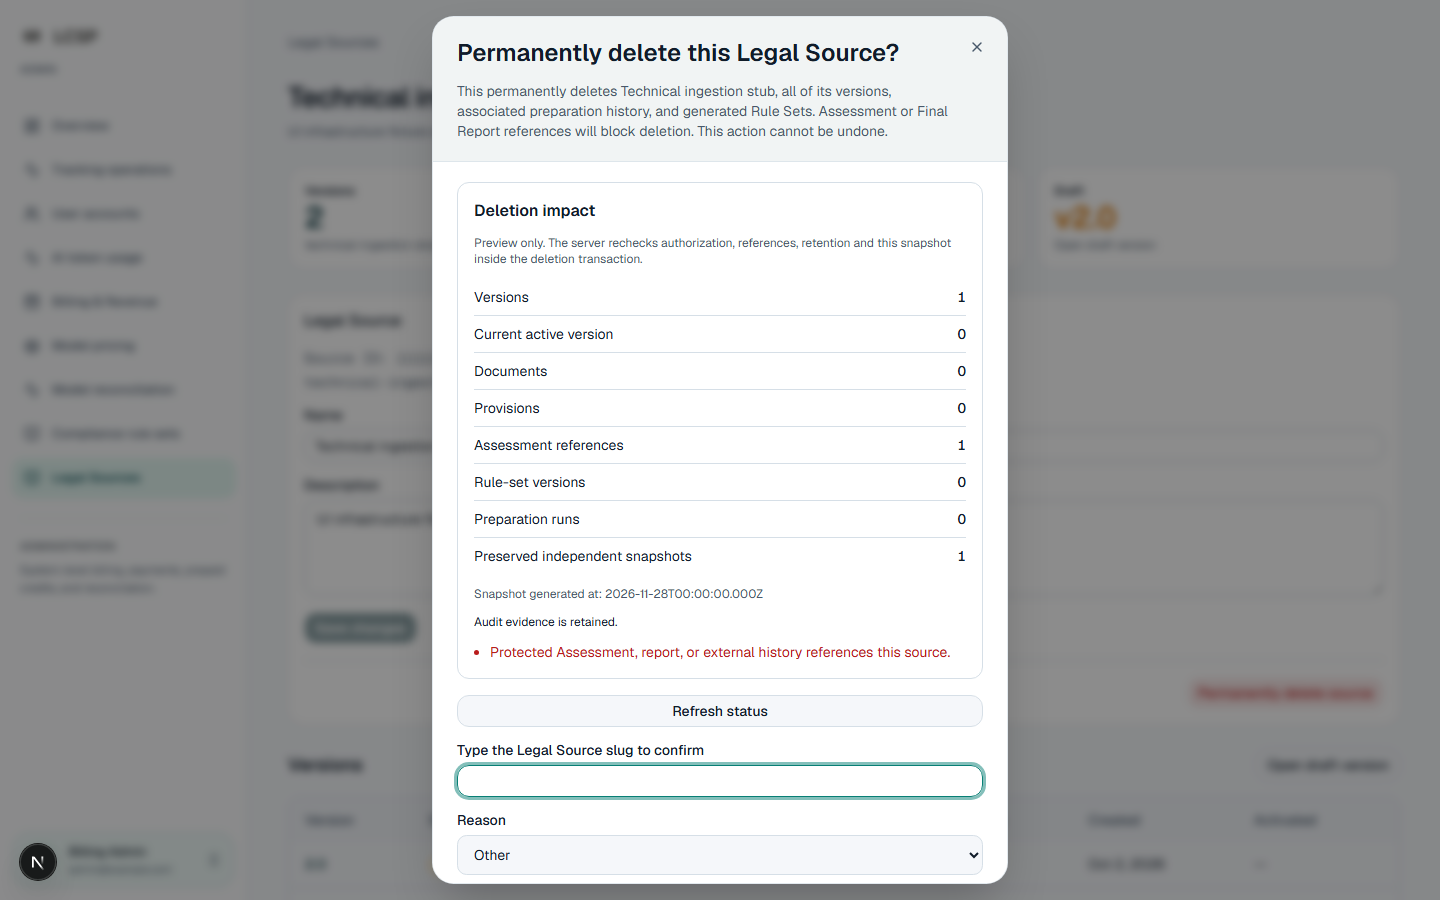
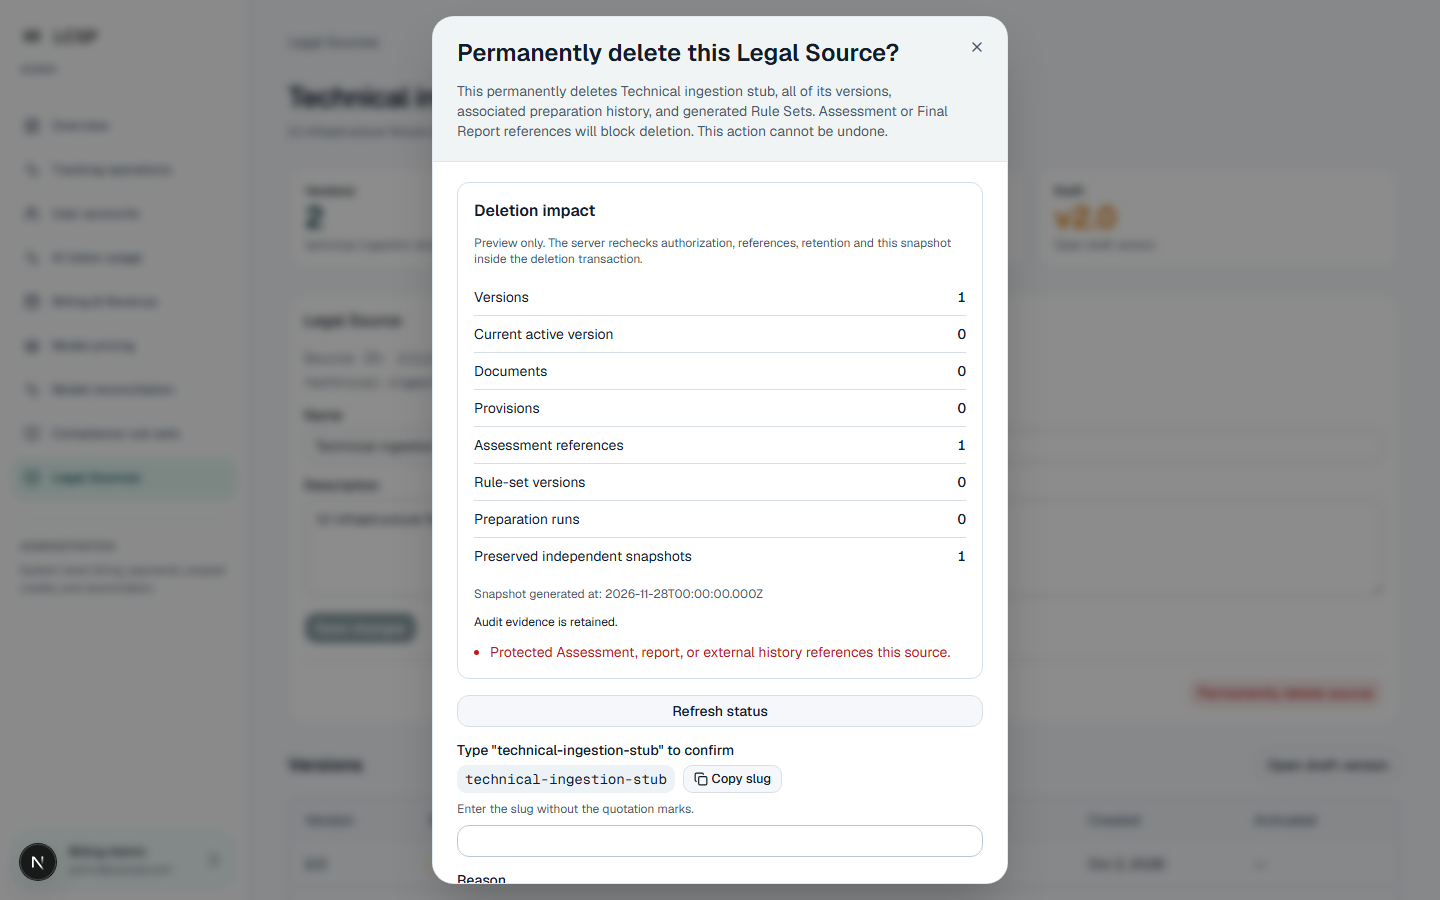
fix(legal-source): LCSP-418 show copyable quoted deletion slug

Changed region(s): [[0.3125, 0.8089, 0.6875, 0.9956]]

diff --git a/tests/e2e/admin/legal-source-lifecycle.spec.ts b/tests/e2e/admin/legal-source-lifecycle.spec.ts
@@ -66,7 +66,8 @@ test("version lifecycle review, document dialogs, provenance and mobile layout",
   ).toBeVisible();
   await page.screenshot({
     path: `${evidence}/${process.env.LCSP_CAPTURE_BEFORE ? "before" : "after"}-version.png`,
-    fullPage: true, animations: "disabled",
+    fullPage: true,
+    animations: "disabled",
   });
   if (process.env.LCSP_CAPTURE_BEFORE) return;
   await page
@@ -81,7 +82,8 @@ test("version lifecycle review, document dialogs, provenance and mobile layout",
   ).toBeVisible();
   await page.screenshot({
     path: `${evidence}/activation-blocked.png`,
-    fullPage: true, animations: "disabled",
+    fullPage: true,
+    animations: "disabled",
   });
   await activation
     .getByRole("button", { name: "Cancel", exact: true })
@@ -98,7 +100,11 @@ test("version lifecycle review, document dialogs, provenance and mobile layout",
     mimeType: "text/plain",
     buffer: Buffer.from("Non-legal technical transport stub."),
   });
-  await page.screenshot({ path: `${evidence}/upload.png`, fullPage: true, animations: "disabled" });
+  await page.screenshot({
+    path: `${evidence}/upload.png`,
+    fullPage: true,
+    animations: "disabled",
+  });
   await upload
     .getByRole("button", { name: "Upload document", exact: true })
     .click();
@@ -128,7 +134,11 @@ test("version lifecycle review, document dialogs, provenance and mobile layout",
     page.getByText(/Document number, issuing authority/).first(),
   ).toBeVisible();
   await page.setViewportSize({ width: 390, height: 844 });
-  await page.screenshot({ path: `${evidence}/mobile.png`, fullPage: true, animations: "disabled" });
+  await page.screenshot({
+    path: `${evidence}/mobile.png`,
+    fullPage: true,
+    animations: "disabled",
+  });
   expect(
     await page.evaluate(
       () => document.documentElement.scrollWidth <= window.innerWidth,
@@ -141,6 +151,7 @@ test("deletion blocks protected references and shows a validated receipt only af
   page,
   context,
 }) => {
+  await context.grantPermissions(["clipboard-read", "clipboard-write"]);
   await context.addCookies([
     {
       name: "lcsp_session",
@@ -189,13 +200,44 @@ test("deletion blocks protected references and shows a validated receipt only af
   await expect(dialog.getByText(/protected|assessment/i).first()).toBeVisible();
   await page.screenshot({
     path: `${evidence}/deletion-blocked.png`,
-    fullPage: true, animations: "disabled",
+    fullPage: true,
+    animations: "disabled",
   });
   expect(deletes).toBe(0);
   eligible = true;
   await dialog
     .getByRole("button", { name: "Refresh status", exact: true })
     .click();
+  const slugInput = dialog.getByLabel(
+    `Type "${fixture.source.slug}" to confirm`,
+    { exact: true },
+  );
+  await expect(slugInput).toHaveValue("");
+  await dialog.getByRole("button", { name: "Copy slug", exact: true }).click();
+  await expect(dialog.getByText("Slug copied", { exact: true })).toBeVisible();
+  expect(await page.evaluate(() => navigator.clipboard.readText())).toBe(
+    fixture.source.slug,
+  );
+  await expect(slugInput).toHaveValue("");
+  await slugInput.scrollIntoViewIfNeeded();
+  await page.screenshot({
+    path: `${evidence}/deletion-slug-copy.png`,
+    fullPage: true,
+    animations: "disabled",
+  });
+  await page.evaluate(() => {
+    navigator.clipboard.writeText = async () => {
+      throw new Error("Clipboard denied for test");
+    };
+  });
+  await dialog.getByRole("button", { name: "Copy slug", exact: true }).click();
+  await expect(
+    dialog.getByText("Could not copy. Select and copy the slug manually.", {
+      exact: true,
+    }),
+  ).toBeVisible();
+  await slugInput.fill(`"${fixture.source.slug}"`);
+  await expect(confirm).toBeDisabled();
   await dialog
     .locator("#legal-source-delete-confirm")
     .fill(fixture.source.slug);
@@ -210,7 +252,8 @@ test("deletion blocks protected references and shows a validated receipt only af
   expect(deletes).toBe(1);
   await page.screenshot({
     path: `${evidence}/deletion-receipt.png`,
-    fullPage: true, animations: "disabled",
+    fullPage: true,
+    animations: "disabled",
   });
 });
 
@@ -257,7 +300,8 @@ test("Vietnamese lifecycle copy and keyboard dialog focus", async ({
   ).toBeDisabled();
   await page.screenshot({
     path: `${evidence}/activation-vi.png`,
-    fullPage: true, animations: "disabled",
+    fullPage: true,
+    animations: "disabled",
   });
   await page.keyboard.press("Escape");
   await expect(dialog).toHaveCount(0);

diff --git a/apps/web/src/features/admin/components/molecules/legal-source-delete-dialog.tsx b/apps/web/src/features/admin/components/molecules/legal-source-delete-dialog.tsx
@@ -10,6 +10,7 @@ import { LegalSourceDeletionImpactPanel } from "./legal-source-deletion-impact-p
 import { useForm, useWatch } from "react-hook-form";
 
 import { Button } from "@/components/ui/button";
+import { CopyTextButton } from "@/components/atoms/copy-text-button";
 import {
   Dialog,
   DialogBody,
@@ -115,6 +116,7 @@ export function LegalSourceDeleteDialog({
     !impact.isError &&
     !impact.isFetching;
   const typedSlugMatches = impact.data?.source.slug === confirmationSlug.trim();
+  const expectedSlug = impact.data?.source.slug ?? source.slug;
 
   if (deletion.data)
     return <LegalSourceDeletionResult receipt={deletion.data} />;
@@ -180,11 +182,32 @@ export function LegalSourceDeleteDialog({
             </Button>
             <div className="flex flex-col gap-2">
               <Label htmlFor="legal-source-delete-confirm">
-                {t("pages.legalSources.confirmSourceSlug")}
+                {formatAppMessage("pages.legalLifecycle.confirmQuotedSlug", {
+                  slug: expectedSlug,
+                })}
               </Label>
+              <div className="flex flex-wrap items-center gap-2">
+                <code className="select-all break-all rounded-md bg-muted px-2 py-1 text-sm">
+                  {expectedSlug}
+                </code>
+                <CopyTextButton
+                  key={expectedSlug}
+                  value={expectedSlug}
+                  copyLabel={t("pages.legalLifecycle.copySlug")}
+                  copiedLabel={t("pages.legalLifecycle.slugCopied")}
+                  failureLabel={t("pages.legalLifecycle.slugCopyFailed")}
+                />
+              </div>
+              <p
+                id="legal-source-delete-confirm-help"
+                className="text-xs text-muted-foreground"
+              >
+                {t("pages.legalLifecycle.slugWithoutQuotes")}
+              </p>
               <Input
                 id="legal-source-delete-confirm"
                 autoComplete="off"
+                aria-describedby="legal-source-delete-confirm-help"
                 {...form.register("confirmationSlug")}
               />
               {form.formState.errors.confirmationSlug ? (

diff --git a/apps/web/src/components/atoms/copy-text-button.tsx b/apps/web/src/components/atoms/copy-text-button.tsx
@@ -1,0 +1,67 @@
+"use client";
+
+import { useState } from "react";
+import { CopyIcon, CheckIcon } from "lucide-react";
+import { Button } from "@/components/ui/button";
+import type { CopyTextButtonProps } from "../types/copy-text-button.types";
+
+export function CopyTextButton({
+  value,
+  copyLabel,
+  copiedLabel,
+  failureLabel,
+}: CopyTextButtonProps) {
+  const [copied, setCopied] = useState(false);
+  const [failed, setFailed] = useState(false);
+  const [pending, setPending] = useState(false);
+
+  /**
+   * Business purpose: Let a user copy an exact identifier without retyping it.
+   * Business rules: Copy only the supplied value and acknowledge only a successful clipboard write; never fill or submit a form.
+   * Execution flow:
+   * 1. Clear feedback and request a clipboard write.
+   * 2. Announce success or failure and release the pending state.
+   * Failure cases: Missing clipboard access or rejected permission displays failure; manual text selection remains available.
+   * Side effects: Writes to the browser clipboard and changes transient feedback only.
+   */
+  async function copyText() {
+    setPending(true);
+    setCopied(false);
+    setFailed(false);
+    try {
+      await navigator.clipboard.writeText(value);
+      setCopied(true);
+    } catch {
+      setFailed(true);
+    } finally {
+      setPending(false);
+    }
+  }
+
+  return (
+    <div className="flex flex-wrap items-center gap-2">
+      <Button
+        type="button"
+        variant="outline"
+        size="sm"
+        disabled={pending}
+        onClick={() => void copyText()}
+      >
+        {copied ? (
+          <CheckIcon aria-hidden="true" />
+        ) : (
+          <CopyIcon aria-hidden="true" />
+        )}
+        {copyLabel}
+      </Button>
+      <span
+        role="status"
+        className={
+          failed ? "text-xs text-destructive" : "text-xs text-muted-foreground"
+        }
+      >
+        {copied ? copiedLabel : failed ? failureLabel : null}
+      </span>
+    </div>
+  );
+}

diff --git a/packages/i18n/src/locales/vi/legal-lifecycle.ts b/packages/i18n/src/locales/vi/legal-lifecycle.ts
@@ -1,4 +1,9 @@
 export const viLegalLifecycle = {
+  confirmQuotedSlug: 'Nhập "{slug}" để xác nhận',
+  copySlug: "Sao chép slug",
+  slugCopied: "Đã sao chép slug",
+  slugCopyFailed: "Không thể sao chép. Hãy chọn và sao chép slug thủ công.",
+  slugWithoutQuotes: "Nhập slug không bao gồm dấu ngoặc kép.",
   versionDetail: "Chi tiết phiên bản nguồn luật",
   versionDescription:
     "Quản lý bản nháp và phiên bản đang hoạt động, giữ nguyên hồ sơ lịch sử.",

diff --git a/packages/i18n/src/locales/en/legal-lifecycle.ts b/packages/i18n/src/locales/en/legal-lifecycle.ts
@@ -1,4 +1,9 @@
 export const enLegalLifecycle = {
+  confirmQuotedSlug: 'Type "{slug}" to confirm',
+  copySlug: "Copy slug",
+  slugCopied: "Slug copied",
+  slugCopyFailed: "Could not copy. Select and copy the slug manually.",
+  slugWithoutQuotes: "Enter the slug without the quotation marks.",
   fileInvalid: "Choose a supported, non-empty file up to 25 MB.",
   versionDetail: "Legal Source Version Detail",
   versionDescription:

diff --git a/apps/web/src/components/types/copy-text-button.types.ts b/apps/web/src/components/types/copy-text-button.types.ts
@@ -1,0 +1,6 @@
+export type CopyTextButtonProps = {
+  value: string;
+  copyLabel: string;
+  copiedLabel: string;
+  failureLabel: string;
+};

diff --git a/docs/implementation/lcsp-418-legal-source-lifecycle.md b/docs/implementation/lcsp-418-legal-source-lifecycle.md
@@ -16,6 +16,8 @@ Purpose maps to existing `OPERATIVE` / `REFERENCE_ONLY` corpus roles. It travels
 
 Deletion requires an eligible successful impact snapshot, reason and matching source slug. Impact errors/refetches disable submission. Rejected deletion refreshes impact and clears confirmation. Retries of the same payload retain the idempotency key. Only a validated server deletion receipt replaces the source page, preventing further edits to a deleted source.
 
+PM follow-up: the confirmation label now includes the actual server/source slug in double quotes (`Type "{slug}" to confirm`, with Vietnamese copy). A selectable slug and shared CopyTextButton copy only the raw slug, without quotes, and provide success/failure feedback. Copy never fills or submits the confirmation. Chromium verifies exact clipboard content, an initially empty input, clipboard-denial feedback and rejection of a quoted value. See [quoted slug and copy feedback](../implementation-artifacts/lcsp-418/deletion-slug-copy.png).
+
 ## Frame-to-route mapping
 
 All frame IDs below belong to `eQOlQ9FcIGOOjlCqDZEQWd`. Existing routes are preserved; related prototype states are composed as dialogs/sections rather than introducing parallel routes.
